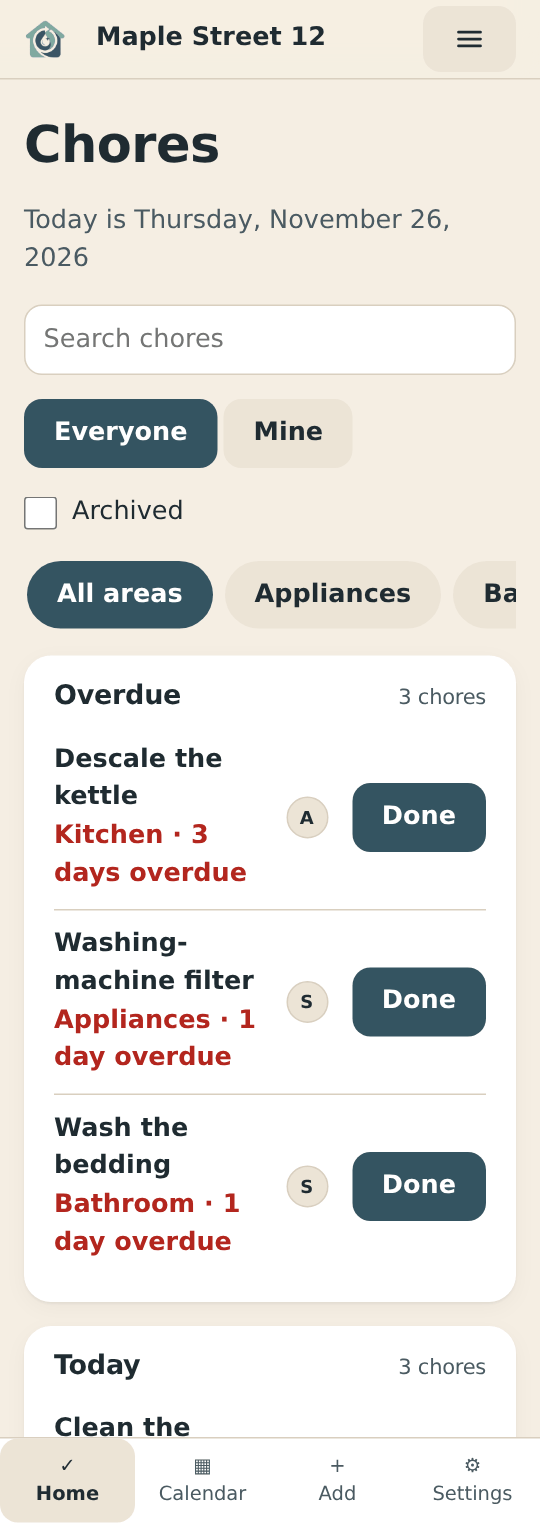
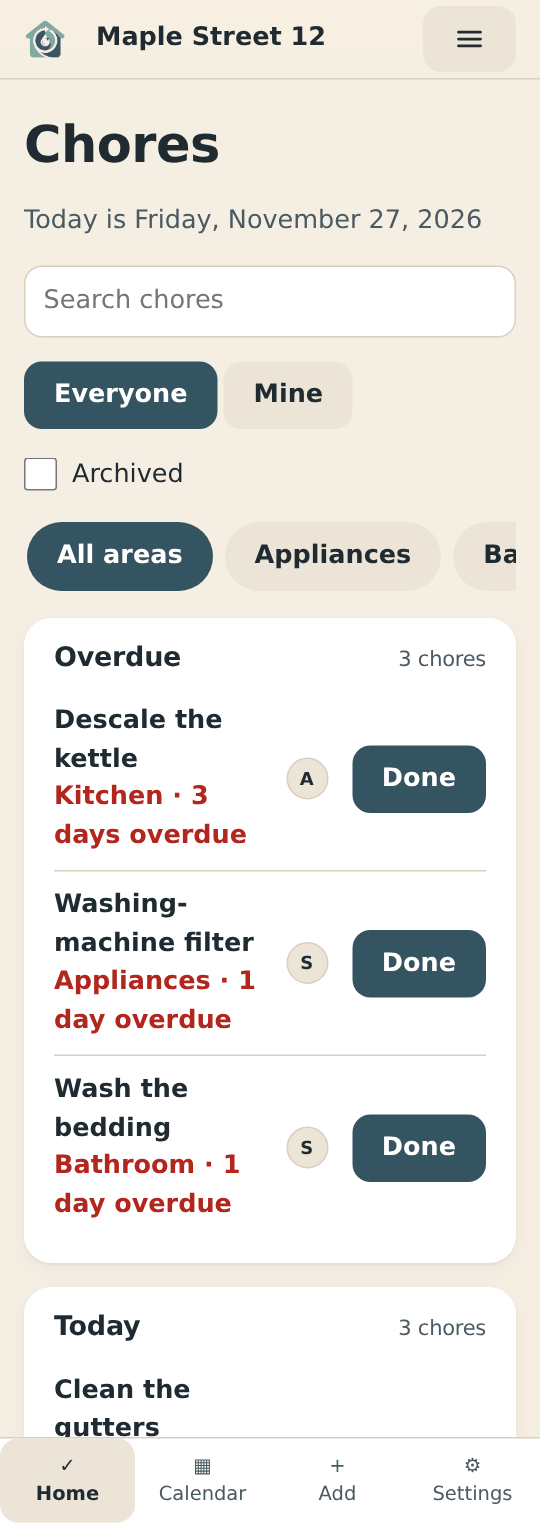
Release 0.10.0: changelog section, screenshots

Changed region(s): [[0.0296, 0.1234, 0.9778, 0.9567], [0.5333, 0.6172, 0.6222, 0.6789], [0.5333, 0.4938, 0.6222, 0.5555]]

diff --git a/CHANGELOG.md b/CHANGELOG.md
@@ -4,6 +4,8 @@ All notable changes are documented here. The format follows [Keep a Changelog](h
 
 ## [Unreleased]
 
+## [0.10.0] - 2026-11-27
+
 ### Added
 
 - A welcome flow for people without a household (`/welcome`, where sign-up now leads): confirm the email address (hosted service), name the household (a name is suggested; time zone detected; areas on), pick starter chores (common ones ticked; first dates spread over the coming week) and create an invite link to copy or share. Every step after the household can be skipped.
